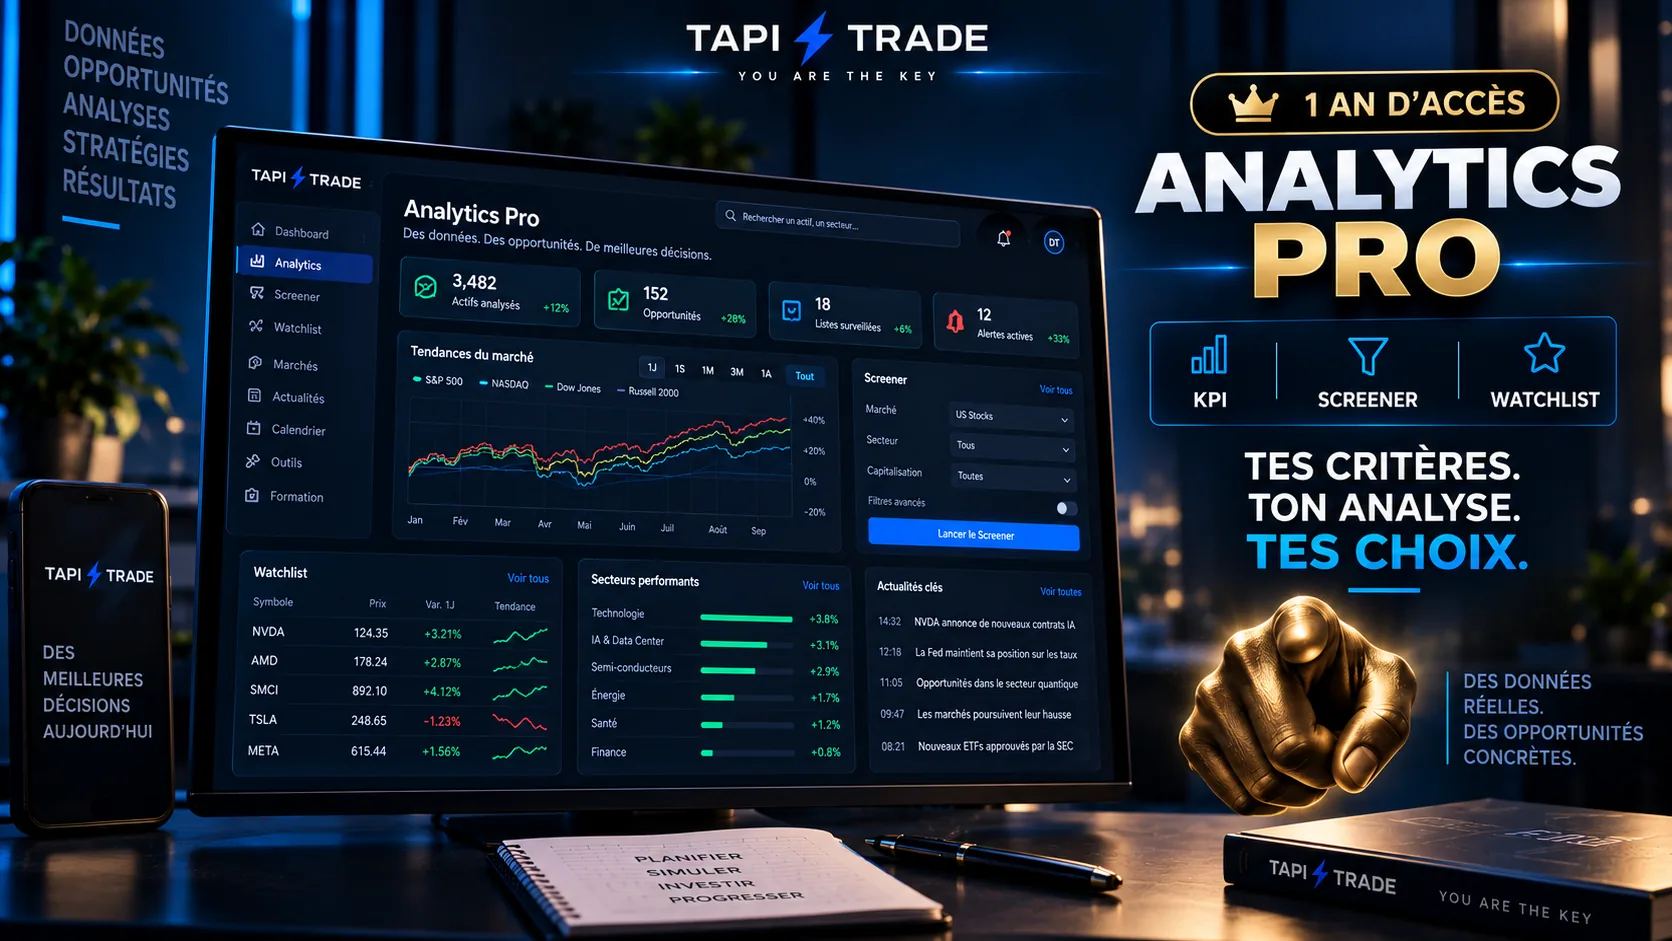
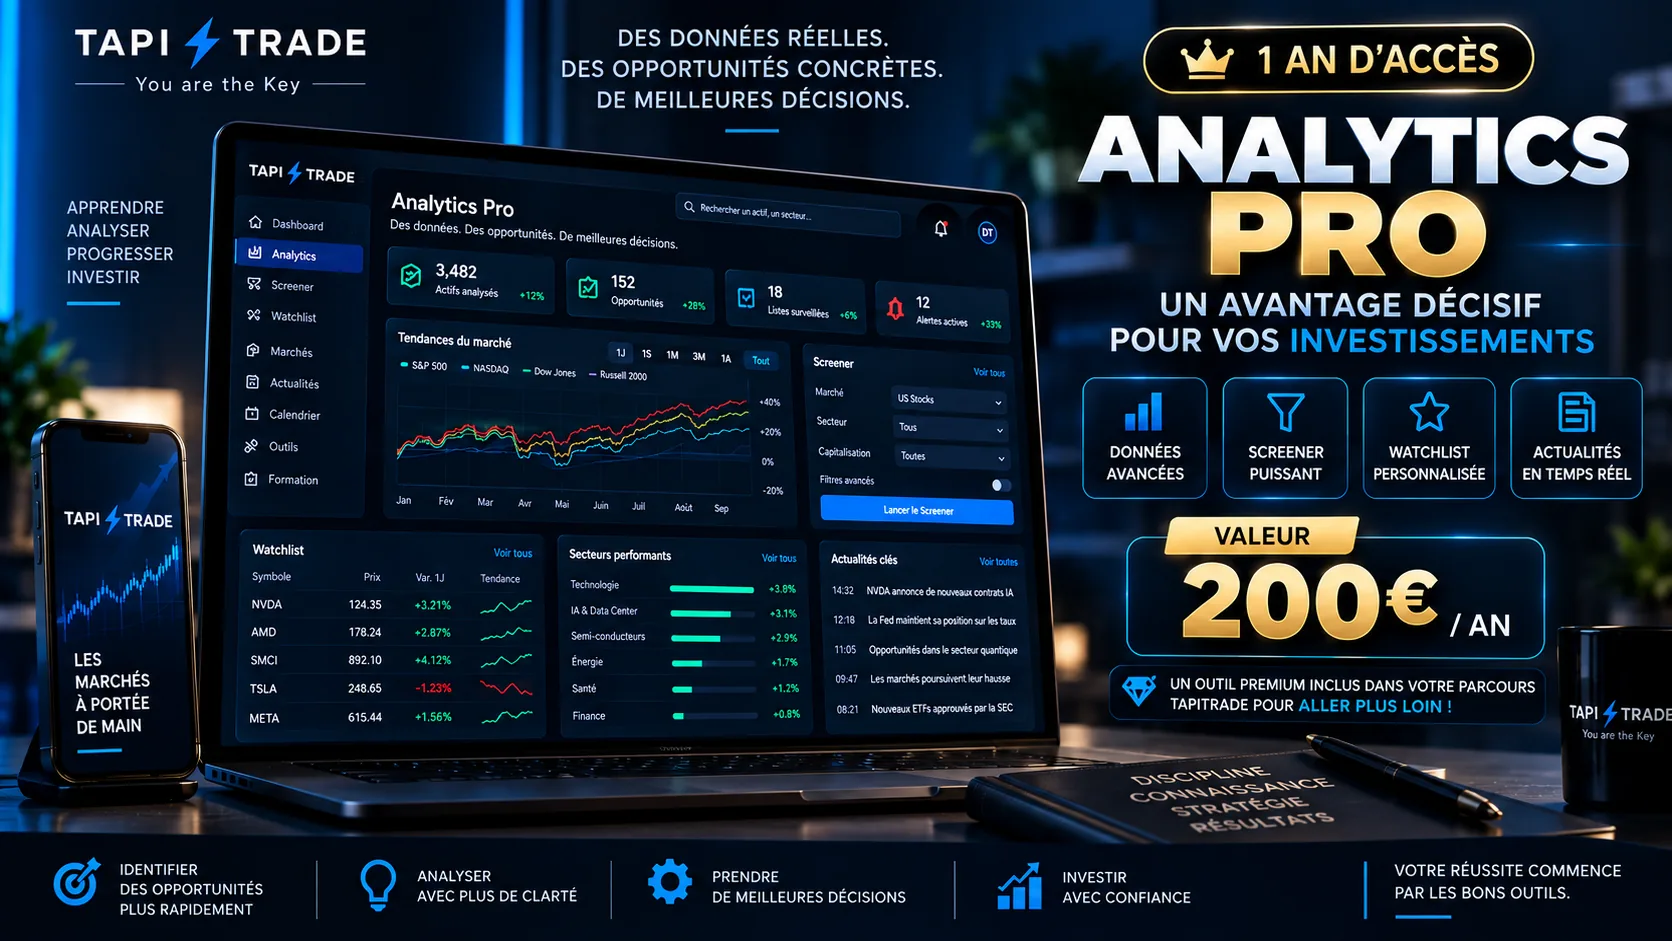
Met a jour le bloc Analytics Pro : nouveau visuel + valeur 200e/an
- Nouveau visuel Bloc-7 (affiche deja "VALEUR 200E/AN")
- Titre : "Un avantage decisif pour ton parcours" (aligne sur le
  vocabulaire Workshop plutot qu'un anglicisme type "game-changer")
- Mention de valeur scindee en deux lignes ("200E/AN OFFERTS" +
  sous-ligne), en coherence avec le nouveau tarif Pro (voir Stock-Analysis)
- KPI . SCREENER . WATCHLIST repasse en or pour plus d'impact

diff --git a/index.html b/index.html
@@ -56,7 +56,7 @@ footer{padding:55px 0 35px;border-top:1px solid var(--line);color:#9ca9c5;font-s
 
 <section class="section" id="outils"><div class="container"><div class="section-head"><div><div class="kicker">Les outils</div><h2>Des outils pour passer à l’action.</h2></div></div><img class="visual" loading="lazy" src="assets/Bloc-6.webp" alt="Budget, Simulateur et Analytics TapiTrade"><div class="tool-grid"><div class="tool"><div class="icon">🧮</div><h4>BUDGET</h4><p>Structure ton approche et garde une vision claire.</p><a href="https://www.tapitrade.com/budget.html">ACCÉDER À L’OUTIL →</a></div><div class="tool"><div class="icon">📊</div><h4>SIMULATEUR</h4><p>Teste des scénarios avant de prendre une décision.</p><a href="https://analytics.tapitrade.com/simulateur.html">ACCÉDER À L’OUTIL →</a></div><div class="tool"><div class="icon">⚡</div><h4>ANALYTICS</h4><p>Fait l’analyse fondamentale des actifs et screene le marché pour trouver les opportunités.</p><a href="https://analytics.tapitrade.com/login.html">DÉCOUVRIR ANALYTICS →</a></div></div><div class="copy"><p>Clique, analyse, planifie et simule tes décisions avec des outils conçus pour t’aider à <strong>mieux comprendre et structurer ton approche.</strong></p></div></div></section>
 
-<section class="section" id="analytics"><div class="container"><div class="section-head"><div><div class="kicker">Analytics Pro</div><h2>1 an d’accès à Analytics Pro.</h2></div></div><img class="visual" loading="lazy" src="assets/Bloc-7.webp" alt="TapiTrade Analytics Pro KPI Screener Watchlist"><div class="copy"><h3>TON ANALYSE. TES CRITÈRES. TES CHOIX.</h3><p>Avec Analytics Pro, tu disposes des données et des outils pour rechercher, analyser et suivre les actifs qui correspondent à <strong>ta propre approche</strong>.</p><div class="signature">KPI • SCREENER • WATCHLIST</div><p class="gold"><strong>1 AN D’ACCÈS INCLUS DANS LE WORKSHOP</strong></p></div></div></section>
+<section class="section" id="analytics"><div class="container"><div class="section-head"><div><div class="kicker">Analytics Pro</div><h2>Un avantage décisif pour ton parcours.</h2></div></div><img class="visual" loading="lazy" src="assets/Bloc-7.webp" alt="TapiTrade Analytics Pro KPI Screener Watchlist"><div class="copy"><h3>TON ANALYSE. TES CRITÈRES. TES CHOIX.</h3><p>Avec Analytics Pro, tu disposes des données et des outils pour rechercher, analyser et suivre les actifs qui correspondent à <strong>ta propre approche</strong>.</p><div class="signature" style="color:var(--gold2)">KPI • SCREENER • WATCHLIST</div><p class="gold" style="font-size:22px"><strong>200€/AN OFFERTS</strong></p><p style="color:#c2cbe0;font-size:14px;margin-top:-8px">Inclus gratuitement dans ton Workshop — sans supplément</p></div></div></section>
 
 <section class="final" id="offre"><div class="container"><div class="kicker">Conclusion</div><img class="visual" loading="lazy" src="assets/Bloc-8.webp" alt="Une méthode, des outils, une communauté pour agir par toi-même"><h2>POUR AGIR <span class="gold">PAR TOI-MÊME.</span></h2><div class="final-buttons cta-row"><a class="btn btn-primary" href="https://book.stripe.com/6oU7sFfkX1Me8hZd6bcbC00" target="_blank" rel="noopener">🔥 JE M’INSCRIS</a><a class="btn btn-secondary" href="https://wa.me/4915565290159" target="_blank" rel="noopener">💬 UNE QUESTION ?</a></div><div class="guarantee"><img loading="lazy" src="assets/Garantie.webp" alt="14 jours satisfait ou remboursé — TapiTrade"></div></div></section>
 </main>
